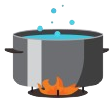
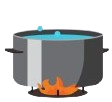
added framer motion for animation and game logic

diff --git a/src/pages/gamePage.tsx b/src/pages/gamePage.tsx
@@ -1,61 +1,209 @@
 import BackgroundAudio from "../components/BackgroundAudio";
-export default function gamePage() {
+import { useState, useRef } from "react";
+import click from "../assets/click.mp3";
+import { motion, useAnimation } from "framer-motion";
+import { GameState } from "../types";
+
+export default function GamePage() {
+  const playClickSound = (sound: any, volume: number) => {
+    const audio = new Audio(sound);
+    audio.volume = volume;
+    audio.play();
+  };
+
+  const [gameState, setGameState] = useState<GameState>("empty");
+
+  const handlePanClick = () => {
+    playClickSound(click, 1);
+    if (gameState === "empty") {
+      setGameState("empty_pot");
+    }
+  };
+
+  const handleRamenClick = () => {
+    playClickSound(click, 1);
+    if (gameState === "boiling_pot") {
+      setGameState("ramen_pot");
+    }
+  };
+
+  const handleBowlClick = () => {
+    playClickSound(click, 1);
+    if (gameState === "ramen_pot") {
+      setGameState("ramen_bowl");
+    }
+  };
+
+  const handleSpicesClick = () => {
+    playClickSound(click, 1);
+    if (gameState === "ramen_bowl") {
+      setGameState("ramen_spices");
+    }
+  };
+
+  const handleEggClick = () => {
+    playClickSound(click, 1);
+    if (gameState === "ramen_spices") {
+      setGameState("ramen_final");
+    }
+  };
+
+  const getInstruction = () => {
+    switch (gameState) {
+      case "empty":
+        return "Put the empty pan on stove to get started";
+      case "empty_pot":
+        return "Click on the pot to get the water boiling";
+      case "boiling_pot":
+        return "Now add the ramen to the bowl";
+      case "ramen_pot":
+        return "Now add the ramen to bowl by clicking the bowl";
+      case "ramen_bowl":
+        return "Add spices";
+      case "ramen_spices":
+        return "Add an egg because NUTRITION?!";
+      case "ramen_final":
+        return "You did it champ!";
+      default:
+        return "";
+    }
+  };
+
+  const handlePotClick = () => {
+    if (gameState === "empty_pot") {
+      playClickSound(click, 1);
+      setGameState("boiling_pot");
+    }
+  };
+
   return (
     <div
       className="flex items-center justify-around min-h-screen lg:bg-[url('/images/main-bg-large.png')] 
     xl:bg-[url('/images/game-bg.jpg')] bg-[url('/images/main-bg-small.png')] 
     bg-cover bg-center bg-no-repeat"
     >
-      <div
-        className="border-2 border-red-500 utensils lg:bg-[url('/images/marble.png')] 
+      <div className="flex items-center justify-around min-h-screen">
+        <div
+          className="utensils border-2 flex flex-col justify-center items-center border-red-500 lg:bg-[url('/images/marble.png')] 
     xl:bg-[url('/images/marble.png')] bg-[url('/images/marble.png')] 
     bg-cover bg-center bg-no-repeat min-h-screen bg-red-100 p-4 rounded-md"
-      >
-        <div className="pan w-56 h-56">
-          <img src="/images/pot.png" alt="pot" />
-        </div>
-        <div className="spoon w-56 h-56">
-          <img src="/images/spoon.png" alt="spoon" />
-        </div>
-        <div className="bowl w-56 h-56">
-          <img src="/images/bowl.png" alt="spoon" />
-        </div>
-      </div>
-      <div className="main  flex flex-col gap-4 border-2 border-red-500">
-        <div className="audio-opt bg-white rounded-md flex flex-col items-center">
-          <BackgroundAudio />
-          <p
-            className="xl:text-s text-s p-2 font-bold text-center text-white 
-          bg-yellow-500 font-pixelify tracking-wider"
+        >
+          {/* Empty Pot */}
+          {gameState === "empty" && (
+            <motion.button
+              onClick={() => handlePanClick()}
+              className="pan cursor-pointer hover:scale-105 transition-transform"
+              whileHover={{ scale: 1.05 }}
+              whileTap={{ scale: 0.95 }}
+            >
+              <img
+                className="w-52 h-46"
+                src="/images/pot-empty.png"
+                alt="pot"
+              />
+            </motion.button>
+          )}
+
+          {/* Bowl */}
+          <motion.button
+            onClick={() => handleBowlClick()}
+            className={`bowl cursor-pointer transition-transform ${
+              gameState === "ramen_pot"
+                ? "hover:scale-105"
+                : "opacity-50 cursor-not-allowed"
+            }`}
+            whileHover={gameState === "ramen_pot" ? { scale: 1.05 } : {}}
+            whileTap={gameState === "ramen_pot" ? { scale: 0.95 } : {}}
           >
-            Press to enjoy some cozy ambience
-          </p>
+            <img className="w-48 h-28" src="/images/bowl.png" alt="bowl" />
+          </motion.button>
         </div>
-        <div className="board flex flex-col h-96 w-96 justify-center items-center lg:bg-[url('/images/board.png')] bg-cover bg-center bg-no-repeat"></div>
-        <div className="audio-opt bg-white rounded-md flex flex-col items-center">
-          <p
-            className="xl:text-s text-s p-2 font-bold text-center text-white 
-          bg-yellow-500 font-pixelify tracking-wider"
+
+        <div className="main m-auto items-stretch justify-center min-h-screen flex flex-col border-2 border-red-500">
+          <div className="audio-opt bg-white rounded-md flex flex-col items-center">
+            <BackgroundAudio />
+            <p className="xl:text-s text-s p-2 font-bold text-center text-white bg-yellow-500 font-pixelify tracking-wider">
+              Press to enjoy some cozy ambience
+            </p>
+          </div>
+          <div className="instructions bg-white rounded-md flex flex-col items-center">
+            <p>{getInstruction()}</p>
+          </div>
+          <div className="board flex flex-col min-h-96 min-w-96 justify-center items-center lg:bg-[url('/images/board.png')] bg-cover bg-center bg-no-repeat">
+            {gameState !== "empty" && (
+              <img
+                onClick={handlePotClick}
+                className="w-52 h-46 cursor-pointer hover:scale-105 transition-transform"
+                src={`/images/${getBoardImage(gameState)}`}
+                alt="cooking"
+              />
+            )}
+          </div>
+        </div>
+
+        <div className="ingredients border-2 flex flex-col justify-center items-center border-red-500 lg:bg-[url('/images/marble.png')] xl:bg-[url('/images/marble.png')] bg-[url('/images/marble.png')] bg-cover bg-center bg-no-repeat min-h-screen bg-red-100 p-4 rounded-md">
+          {/* Ramen */}
+          <motion.button
+            onClick={() => handleRamenClick()}
+            className={`ramen cursor-pointer transition-transform ${
+              gameState === "boiling_pot"
+                ? "hover:scale-105"
+                : "opacity-50 cursor-not-allowed"
+            }`}
+            whileHover={gameState === "boiling_pot" ? { scale: 1.05 } : {}}
+            whileTap={gameState === "boiling_pot" ? { scale: 0.95 } : {}}
           >
-            This is where instructiond will be shown
-          </p>
-        </div>
-      </div>
-      <div
-        className="ingredients lg:bg-[url('/images/marble.png')] 
-    xl:bg-[url('/images/marble.png')] bg-[url('/images/marble.png')] 
-    bg-cover bg-center bg-no-repeat min-h-screen border-2 border-red-500  bg-white p-4 rounded-md"
-      >
-        <div className="ramen w-56 h-56">
-          <img src="/images/ramen.png" alt="ramen" />
-        </div>
-        <div className="spices w-36 h-36">
-          <img src="/images/spices.png" alt="spices" />
-        </div>
-        <div className="egg w-44 h-44">
-          <img src="/images/egg.png" alt="egg" />
+            <img className="w-44 h-56" src="/images/ramen.png" alt="ramen" />
+          </motion.button>
+
+          {/* Spices */}
+          <motion.button
+            onClick={() => handleSpicesClick()}
+            className={`spices cursor-pointer transition-transform ${
+              gameState === "ramen_bowl"
+                ? "hover:scale-105"
+                : "opacity-50 cursor-not-allowed"
+            }`}
+            whileHover={gameState === "ramen_bowl" ? { scale: 1.05 } : {}}
+            whileTap={gameState === "ramen_bowl" ? { scale: 0.95 } : {}}
+          >
+            <img className="w-36 h-36" src="/images/spices.png" alt="spices" />
+          </motion.button>
+
+          {/* Egg */}
+          <motion.button
+            onClick={() => handleEggClick()}
+            className={`egg cursor-pointer transition-transform ${
+              gameState === "ramen_spices"
+                ? "hover:scale-105"
+                : "opacity-50 cursor-not-allowed"
+            }`}
+            whileHover={gameState === "ramen_spices" ? { scale: 1.05 } : {}}
+            whileTap={gameState === "ramen_spices" ? { scale: 0.95 } : {}}
+          >
+            <img className="w-44 h-44" src="/images/egg.png" alt="egg" />
+          </motion.button>
         </div>
       </div>
     </div>
   );
 }
+
+const getBoardImage = (gameState: GameState) => {
+  switch (gameState) {
+    case "empty_pot":
+      return "pot-empty.png";
+    case "boiling_pot":
+      return "pot-boiling.png";
+    case "ramen_pot":
+      return "pot-ramen.png";
+    case "ramen_bowl":
+      return "bowl-ramen.png";
+    case "ramen_spices":
+      return "bowl-spices.png";
+    case "ramen_final":
+      return "bowl-final.png";
+    default:
+      return "pot-empty.png";
+  }
+};

diff --git a/src/types.ts b/src/types.ts
@@ -1,0 +1,13 @@
+export type GameState = 
+  | 'empty' 
+  | 'empty_pot' 
+  | 'boiling_pot'
+  | 'ramen_pot'
+  | 'ramen_bowl'
+  | 'ramen_spices'
+  | 'ramen_final';
+
+export interface Position {
+  x: number;
+  y: number;
+}
